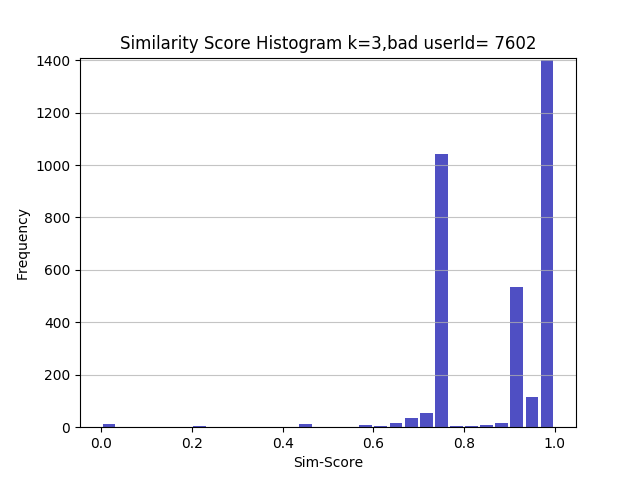
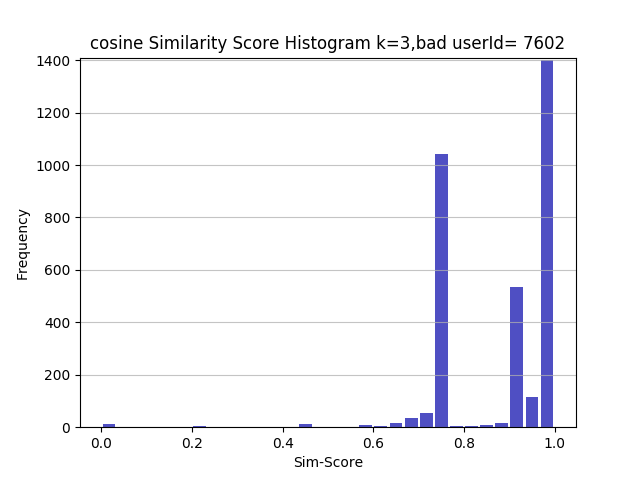
fix some runtime issue after rename teh pkl file

Changed region(s): [[0.1562, 0.0625, 0.875, 0.125]]

diff --git a/sim_scores.py b/sim_scores.py
@@ -49,11 +49,11 @@ def dumpTopKSimNodes(feature_sim_node_score_map, base_node_id, topK, mode):
     for i in range(0, len_score):
         reverse_sorted[i]
         if i < topK:
-            print "top k score #: %d \t %s \t%s" % (i, reverse_sorted[i].score, reverse_sorted[i].name)
+            # print "top k score #: %d \t %s \t%s" % (i, reverse_sorted[i].score, reverse_sorted[i].name)
             topKSet.append(reverse_sorted[i].score)
 
         if i > len_score - topK:
-            print "last k score #: %d \t %s \t%s" % (i, reverse_sorted[i].score, reverse_sorted[i].name)
+            # print "last k score #: %d \t %s \t%s" % (i, reverse_sorted[i].score, reverse_sorted[i].name)
             lastKSet.append(reverse_sorted[i].score)
 
         fw.write("%s,%s\n" % (reverse_sorted[i].score, reverse_sorted[i].name))
@@ -96,5 +96,5 @@ for mode in ['cosine', 'l2']:
 
     # def histogram(values, bins, xlabel, ylabel, title, fileName)
     utils.hist(sim_score_values_map.values(), 30, 'Sim-Score', 'Frequency',
-               'Similarity Score Histogram k=3,bad userId= %d' % bad_user_id,
+               '%s Similarity Score Histogram k=3,bad userId= %d' % (mode, bad_user_id),
                "./diagram/%s_sim_score_histogram_%d.PNG" % (mode, bad_user_id))

diff --git a/k-means.py b/k-means.py
@@ -5,13 +5,15 @@ import random
 
 import networkx as nx
 import numpy as np
+import cPickle
+import ground_truth_analysis as gt
 
 dataset = "alpha"
 
 
 def load_graph():
     G = nx.read_gpickle(
-        "results/%s_graph_embedding_vectors.pkl" % (dataset))
+        "results/%s_graph_embedding_featured_graph.pkl" % (dataset))
 
     print "Total nodes=%d" % G.number_of_nodes()
     print "Total edges=%d" % G.number_of_edges()
@@ -67,6 +69,25 @@ def main():
     k = 3
     centers, labels = k_means_clustering(score_map, k)
     print centers
+
+    gt_bad_users = cPickle.load(
+        open("./results/%s_gt_bad_users_set.pkl" % dataset, "rb"))
+
+    c1 = []
+    c2 = []
+    c0 = []
+    for node_id in labels:
+        if labels[node_id] == 0:
+            c0.append(node_id)
+        if labels[node_id] == 1:
+            c1.append(node_id)
+        if labels[node_id] == 2:
+            c2.append(node_id)
+
+    gt.intersectUsers(c0, gt_bad_users)
+    gt.intersectUsers(c1, gt_bad_users)
+    gt.intersectUsers(c2, gt_bad_users)
+
     for i in range(k):
         print "Cluster ", i, ": ", [
             node_id for node_id in labels if labels[node_id] == i

diff --git a/networkx_utils.py b/networkx_utils.py
@@ -47,8 +47,8 @@ def drawNxGraphNodeGroups(NxG, good_users, bad_users, other_users, title, fileNa
 
 def drawNxGrap(NxG, title, fileName):
     pos = nx.spring_layout(NxG)
-    nx.draw_networkx(NxG, pos)
-
+    nx.draw_networkx_nodes(NxG, pos)
+    nx.draw_networkx_edges(NxG, pos)
 
     # nx.draw_networkx_nodes(NxG, pos, node_size=3)
     # nx.draw_networkx_labels(NxG, pos, font_size=6)

diff --git a/ground_truth_analysis.py b/ground_truth_analysis.py
@@ -39,8 +39,8 @@ def analysisGT():
 
 
 def intersectUsers(my_bad_users, gt_bad_users):
-    print my_bad_users
-    print gt_bad_users
+    # print my_bad_users
+    # print gt_bad_users
     print (set(my_bad_users) & set(gt_bad_users))
 
 
